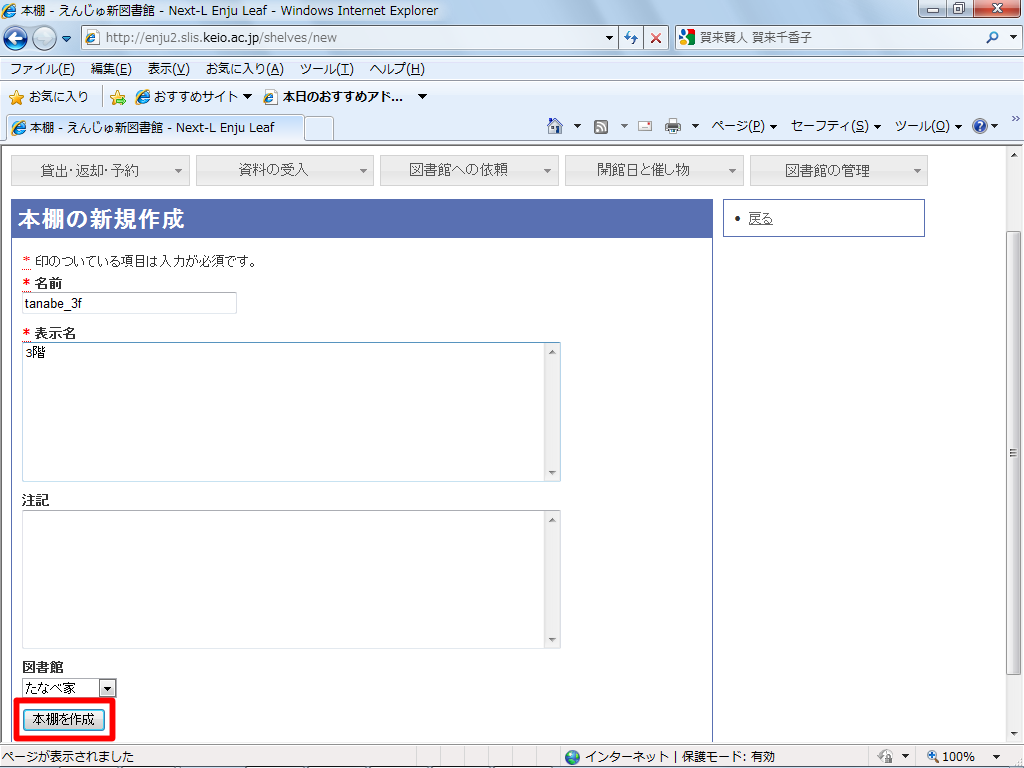
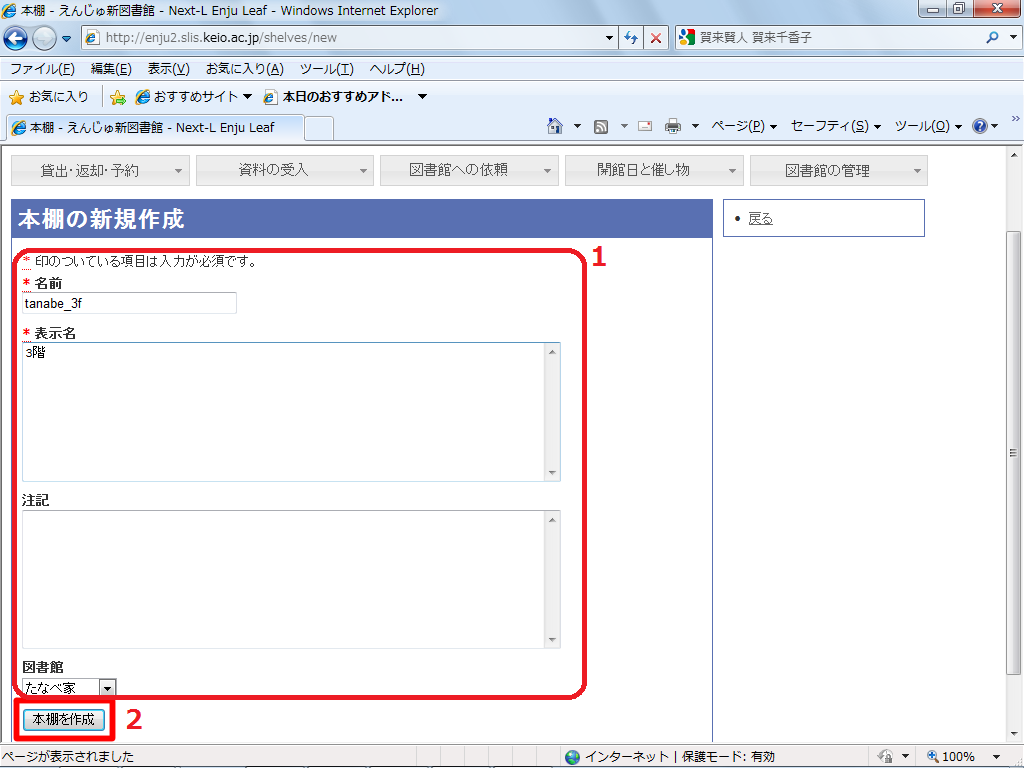
3-3 本棚を設定するの本棚作成の図を修正

Changed region(s): [[0.0, 0.3125, 0.5938, 0.9062], [0.0312, 0.9062, 0.5625, 0.9688]]

diff --git a/_includes/enju_setup/shelf.md b/_includes/enju_setup/shelf.md
@@ -21,8 +21,8 @@
 
    <div class="alert alert-info">
    【Memo】入力済みの本棚の設定内容を変更する場合は，［編集］をクリックします。</div>
-4. 設定項目に必要事項を入力します。
-5. ［本棚を作成］ボタンをクリックして，設定内容を登録します。  
+4. 設定項目に必要事項を入力し，
+   ［本棚を作成］ボタンをクリックして，設定内容を登録します。  
    ![本棚の作成](assets/images/image_initial_024.png)
 
    <div class="alert alert-info">
